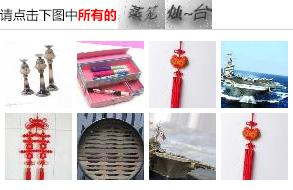
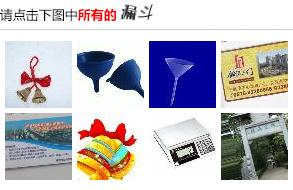
实现自动识别验证码功能

diff --git a/API/YDMHTTP.py b/API/YDMHTTP.py
@@ -1,0 +1,94 @@
+import http.client, mimetypes, urllib, json, time, requests
+
+######################################################################
+
+class YDMHttp:
+
+    apiurl = 'http://api.yundama.com/api.php'
+    username = b'itlike_sz'
+    password = b'www.itlike.com'
+    appid = '6703'
+    appkey = '85addb28d0c25a61abb455540a64e6c6'
+
+    def request(self, fields, files=[]):
+        response = self.post_url(self.apiurl, fields, files)
+        response = json.loads(response)
+        return response
+    
+    def balance(self):
+        data = {'method': 'balance', 'username': self.username, 'password': self.password, 'appid': self.appid, 'appkey': self.appkey}
+        response = self.request(data)
+        if (response):
+            if (response['ret'] and response['ret'] < 0):
+                return response['ret']
+            else:
+                return response['balance']
+        else:
+            return -9001
+    
+    def login(self):
+        data = {'method': 'login', 'username': self.username, 'password': self.password, 'appid': self.appid, 'appkey': self.appkey}
+        response = self.request(data)
+        if (response):
+            if (response['ret'] and response['ret'] < 0):
+                return response['ret']
+            else:
+                return response['uid']
+        else:
+            return -9001
+
+    def upload(self, filename, codetype, timeout):
+        data = {'method': 'upload', 'username': self.username, 'password': self.password, 'appid': self.appid, 'appkey': self.appkey, 'codetype': str(codetype), 'timeout': str(timeout)}
+        file = {'file': filename}
+        response = self.request(data, file)
+        if (response):
+            if (response['ret'] and response['ret'] < 0):
+                return response['ret']
+            else:
+                return response['cid']
+        else:
+            return -9001
+
+    def result(self, cid):
+        data = {'method': 'result', 'username': self.username, 'password': self.password, 'appid': self.appid, 'appkey': self.appkey, 'cid': str(cid)}
+        response = self.request(data)
+        return response and response['text'] or ''
+
+    def decode(self, filename, codetype, timeout):
+        cid = self.upload(filename, codetype, timeout)
+        if (cid > 0):
+            for i in range(0, timeout):
+                result = self.result(cid)
+                if (result != ''):
+                    return cid, result
+                else:
+                    time.sleep(1)
+            return -3003, ''
+        else:
+            return cid, ''
+
+    def report(self, cid):
+        data = {'method': 'report', 'username': self.username, 'password': self.password, 'appid': self.appid, 'appkey': self.appkey, 'cid': str(cid), 'flag': '0'}
+        response = self.request(data)
+        if (response):
+            return response['ret']
+        else:
+            return -9001
+
+    def post_url(self, url, fields, files=[]):
+        for key in files:
+            files[key] = open(files[key], 'rb');
+        res = requests.post(url, files=files, data=fields)
+        return res.text
+
+    def get_yzm_result(self, yzm_url):
+        uid = self.login()
+        #print('uid: %s' % uid)
+
+        # 开始识别，图片路径，验证码类型ID，超时时间（秒），识别结果
+        cid, result = self.decode(yzm_url, 6701, 60)
+        print('cid: %s, result: %s' % (cid, result))
+
+        return result
+
+######################################################################

diff --git a/Sz_Label.py b/Sz_Label.py
@@ -2,6 +2,24 @@ from PyQt5.Qt import *
 
 class SzLabel(QLabel):
 
+    def auto_add_point(self, result):
+
+        w = self.width() / 4
+        h = (self.height() - 30) / 2
+
+        for idx_c in result:
+            idx_i = int(idx_c)
+
+            row = (idx_i - 1) / 4
+            col = (idx_i - 1) % 4
+
+            center_x = col * w + w * 0.5
+            center_y = row * h + h * 0.5 + 30
+
+            self.create_point_btn(QPoint(center_x, center_y))
+
+
+
     def clear_points(self):
         [child.deleteLater() for child in self.children() if child.inherits("QPushButton")]
 
@@ -14,14 +32,17 @@ class SzLabel(QLabel):
 
     def mousePressEvent(self, evt):
         super().mousePressEvent(evt)
-        print(evt.pos())
+        #print(evt.pos())
 
+        self.create_point_btn(evt.pos() - QPoint(10, 10))
+
+    def create_point_btn(self, pt):
         point = QPushButton(self)
         point.resize(20, 20)
-        point.move(evt.pos() - QPoint(10, 10))
+        point.move(pt)
         point.setStyleSheet("background-color: red; border-radius: 10px;")
         point.show()
 
-        point.clicked.connect(lambda _, btn = point: btn.deleteLater())
+        point.clicked.connect(lambda _, btn=point: btn.deleteLater())
 
         

diff --git a/Login_Pane.py b/Login_Pane.py
@@ -2,6 +2,7 @@ from PyQt5.Qt import *
 from resource.login_ui import Ui_Form
 
 from API.API_Tool import APITool
+from API.YDMHTTP import YDMHttp
 
 class LoginPane(QWidget, Ui_Form):
     def __init__(self, parent=None, *args, **kwargs):
@@ -12,13 +13,20 @@ class LoginPane(QWidget, Ui_Form):
     def refresh_yzm(self):
         print("刷新验证码")
         url = APITool.download_yzm()
+        self.current_yzm_url = url
         print(url)
+
+        self.yzm_label.clear_points()
 
         pixmap = QPixmap(url)
         self.yzm_label.setPixmap(pixmap)
 
     def auto_dm(self):
         print("自动识别")
+        dm = YDMHttp()
+        result = dm.get_yzm_result(self.current_yzm_url)
+        #print(result)
+        self.yzm_label.auto_add_point(result)
 
     def check_login(self):
         print("验证登录")
